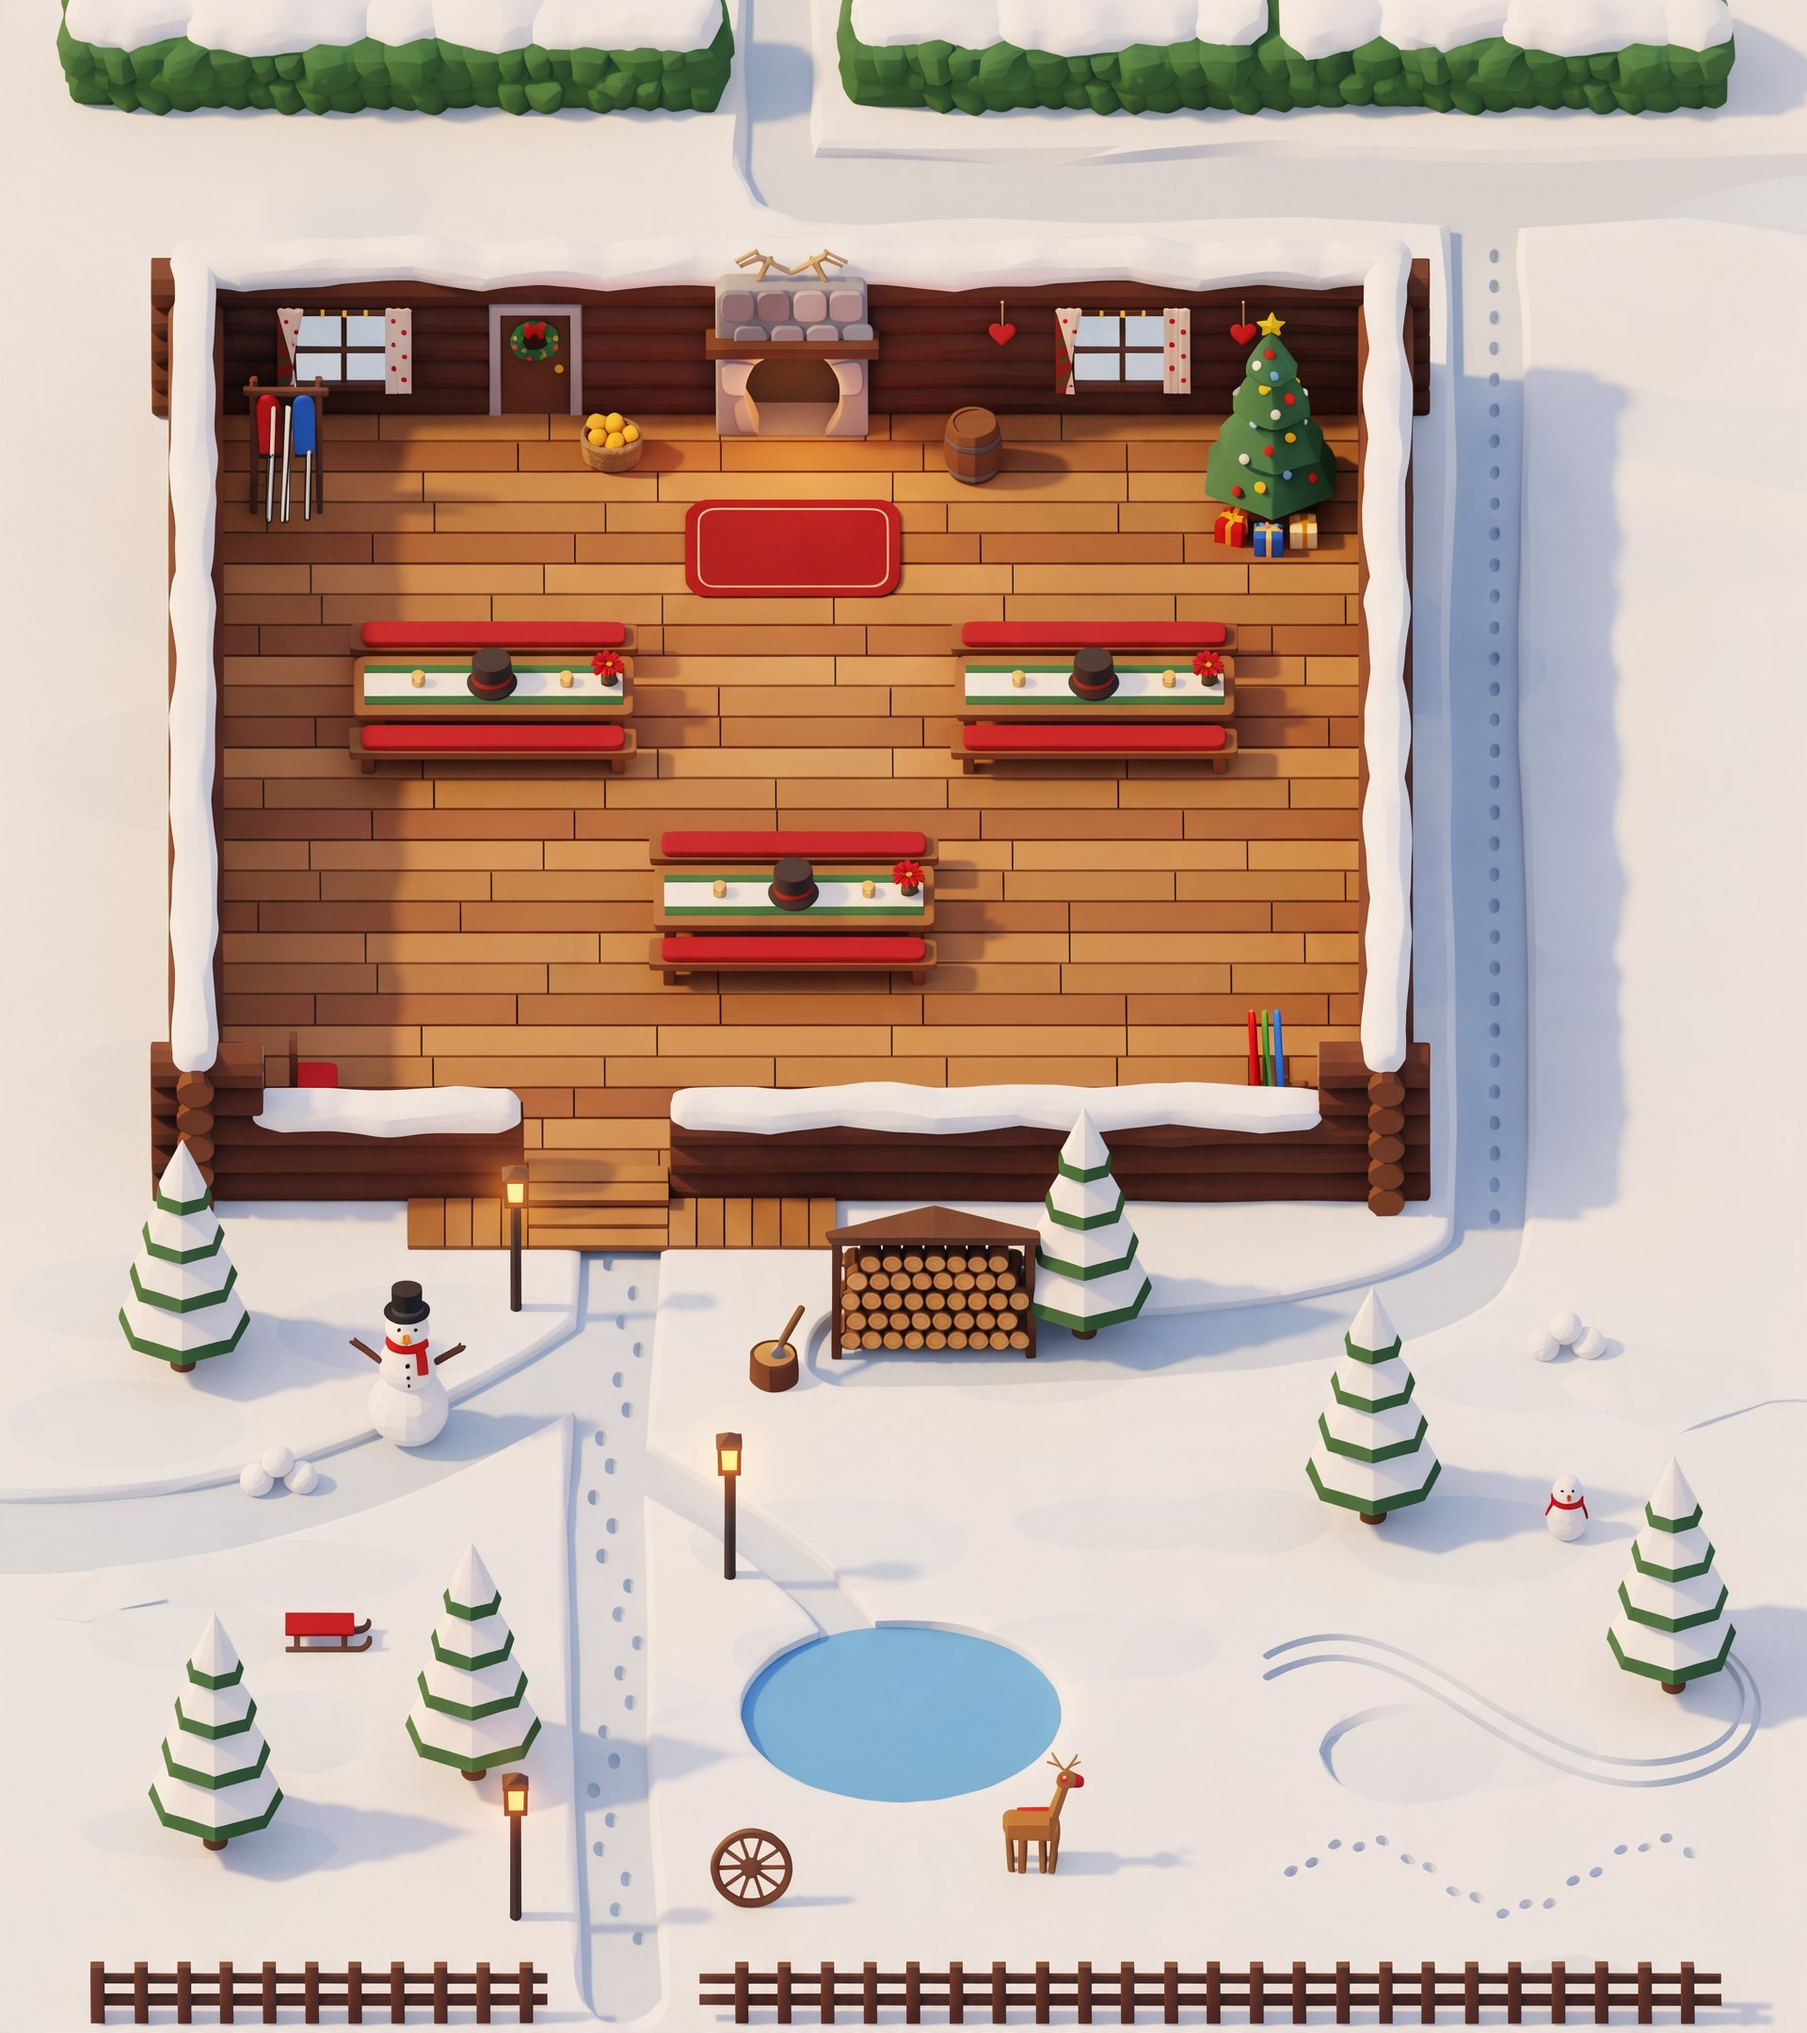
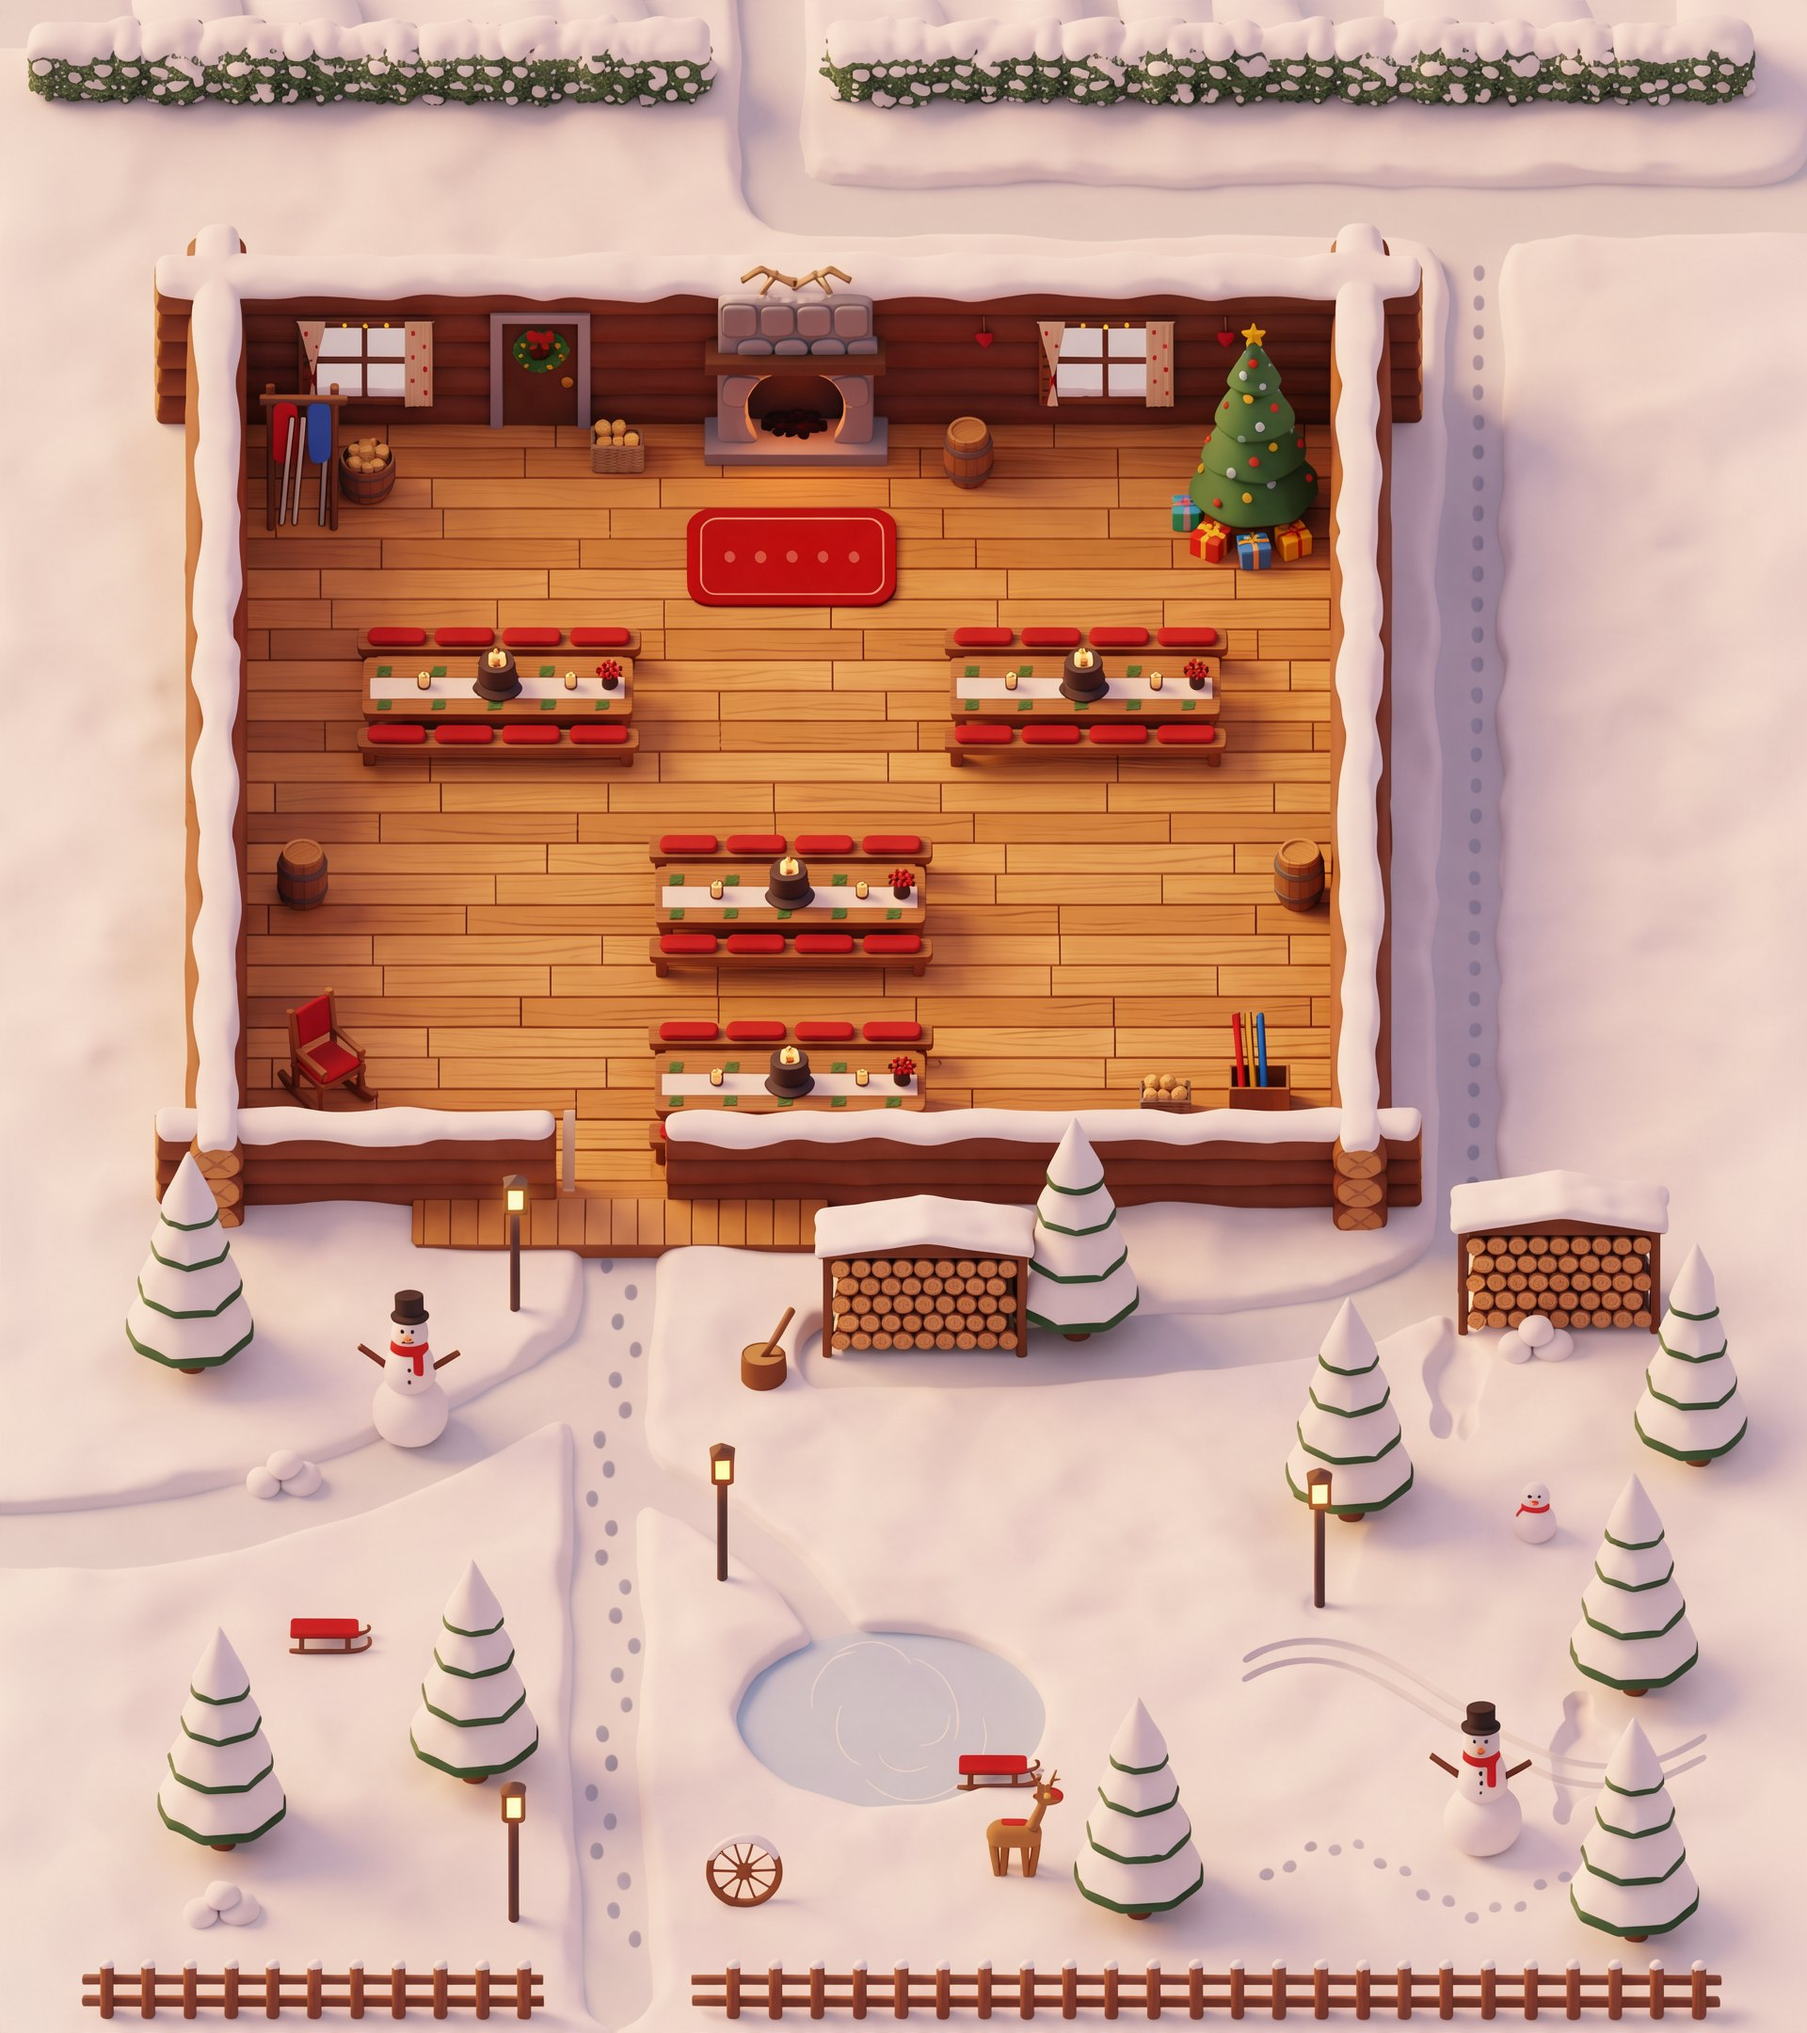
Chalet: vierter Tisch, mehr Fässer, Holzstapel, Tannen, Schneemann, Schlitten, Laterne – weniger leere Fläche (neu gemalt)
Claude-Session: https://claude.ai/code/session_01Qhb842PDzUHjhoZQzbWqNn

diff --git a/js/stage_chalet.js b/js/stage_chalet.js
@@ -267,6 +267,28 @@ CSPOTS.push(furnSpot(CDECOR, 'tanne5', 'right', { px: 1218, py: 1110, sx: 1250, 
 const CHALET_INNEN = new Set(['tafel1', 'tafel2', 'tafel3', 'baum', 'holzkorb', 'garderobe', 'fass', 'schaukelstuhl', 'kiste']);
 for (const d of CDECOR) if (!CHALET_INNEN.has(d.id)) { d.y += CY2; if (d.y0 != null) d.y0 += CY2; if (d.bb) d.bb[1] += CY2; }
 for (const q of CSPOTS) if (!CHALET_INNEN.has(q.decor)) { q.y += CY2; q.py += CY2; if (q.cut) q.cut += CY2; }
+// mehr Tische und Deko (User: zu viel leere Fläche) – schon in fertigen Koordinaten
+CDECOR.push(
+  { id: 'tafel4', t: 'huettentafel', x: 660, y: 1010, x0: 530, y0: 940, w: 260, h: 50, bb: [500, 860, 320, 170] },
+  { id: 'fass2', t: 'kaesefass', x: 190, y: 800, r: 22, bb: [150, 730, 80, 76] },
+  { id: 'fass3', t: 'kaesefass', x: 1150, y: 800, r: 22, bb: [1110, 730, 80, 76] },
+  { id: 'holzkorb2', t: 'holzkorb', x: 1020, y: 1000, r: 22, bb: [980, 950, 80, 62] },
+  { id: 'tanne7', t: 'tanne', x: 1480, y: 1720, r: 30, bb: [1400, 1500, 160, 230] },
+  { id: 'tanne8', t: 'tanne', x: 1540, y: 1300, r: 30, bb: [1460, 1080, 160, 230] },
+  { id: 'tanne9', t: 'tanne', x: 1000, y: 1700, r: 30, bb: [920, 1480, 160, 230] },
+  { id: 'laterne4', t: 'laternenpfahl', x: 1170, y: 1420, r: 10, bb: [1150, 1300, 40, 126], anim: true },
+  { id: 'schneemann2', t: 'schneemann', x: 1330, y: 1640, r: 26, bb: [1280, 1510, 100, 140] },
+  { id: 'schlitten2', t: 'schlitten', x: 860, y: 1580, r: 26, bb: [810, 1540, 100, 50] },
+  { id: 'holzstapel2', t: 'holzstapel', x: 1400, y: 1180, x0: 1310, y0: 1140, w: 180, h: 40, bb: [1300, 1080, 200, 110] },
+  { id: 'schneehaufen3', t: 'schneehaufen', x: 120, y: 1700, r: 30, bb: [70, 1660, 100, 46] },
+);
+CSPOTS.push(
+  furnSpot(CDECOR, 'tafel4', 'top', { px: 700, py: 952, sx: 700, sy: 880 }),
+  furnSpot(CDECOR, 'fass3', 'right', { px: 1168, py: 782, sx: 1150, sy: 845 }),
+  furnSpot(CDECOR, 'tanne8', 'left', { px: 1518, py: 1270, sx: 1490, sy: 1310 }),
+  furnSpot(CDECOR, 'schneemann2', 'left', { px: 1312, py: 1606, sx: 1285, sy: 1652 }),
+  furnSpot(CDECOR, 'holzstapel2', 'top', { px: 1372, py: 1118, sx: 1372, sy: 1222 }),
+);
 // innen: rot karierte Wolldecke, draußen: Schneehaufen
 function drawChaletCover(c, x, y, w, seed = 0) {
   if (y < HUT.y1 && x > HUT.x0 && x < HUT.x1) {
@@ -301,8 +323,8 @@ STAGE_DEFS.chalet = {
   npcs: [
     { id: 'c_gerda', pos: [[SXI(285), 463], [SXI(728), 472], [340, 760]] },
     { id: 'c_felix', pos: [[260, 1200], [1250, 1300], [237, 1375]] },
-    { id: 'c_berger', pos: [[SXI(500), 950], [SXI(760), 760], [1300, 160]] },
-    { id: 'c_toni', pos: [[1190, 760], [1450, 1050], [640, 940]] },
+    { id: 'c_berger', pos: [[900, 880], [SXI(760), 760], [1300, 160]] },
+    { id: 'c_toni', pos: [[1190, 760], [1450, 1050], [420, 1000]] },
     { id: 'c_anna', pos: [[380, 1080], [700, 1400], [1460, 1090]] },
   ],
   decor: CDECOR, spots: CSPOTS, grid: buildGridChalet, ground: drawGroundChalet, decorDraw: CDRAW,

diff --git a/js/lowpoly.js b/js/lowpoly.js
@@ -11,7 +11,7 @@ const LP = {
     aussen: { map: 'assets/lowpoly/aussen/map.jpg?v=1', staff: {} },
     parkplatz: { map: 'assets/lowpoly/parkplatz/map.jpg?v=2', staff: {} },
     uebung: { map: 'assets/lowpoly/uebung/map.jpg?v=1', staff: {} },
-    chalet: { map: 'assets/lowpoly/chalet/map.jpg?v=1', staff: {} },
+    chalet: { map: 'assets/lowpoly/chalet/map.jpg?v=2', staff: {} },
     spielplatz: { map: 'assets/lowpoly/spielplatz/map.jpg?v=3', staff: {}, roof: [518, 395, 288, 168] },   // Schaukelgerüst, Rutsche, Treppe, Häuschen sind im Bild; Dach extra (wird durchsichtig)
   },
   zoomK: 0.72,   // Zoom in allen Bereichen gleich (Küche als Maß)

diff --git a/index.html b/index.html
@@ -37,9 +37,9 @@
 <script src="js/stage_kueche.js?v=20261030gr6"></script>
 <script src="js/stage_gastraum.js?v=20261030gr6"></script>
 <script src="js/stage_aussen.js?v=20261030gr6"></script>
-<script src="js/stage_chalet.js?v=20261030gr6"></script>
+<script src="js/stage_chalet.js?v=20261030gr7"></script>
 <script src="js/stage_parkplatz.js?v=20261030gr6"></script>
-<script src="js/lowpoly.js?v=20261030gr6"></script>
+<script src="js/lowpoly.js?v=20261030gr7"></script>
 <script src="js/world.js?v=20261030gr6"></script>
 <script src="js/tutorial.js?v=20261030gr6"></script>
 <script src="js/ui.js?v=20261030gr6"></script>
